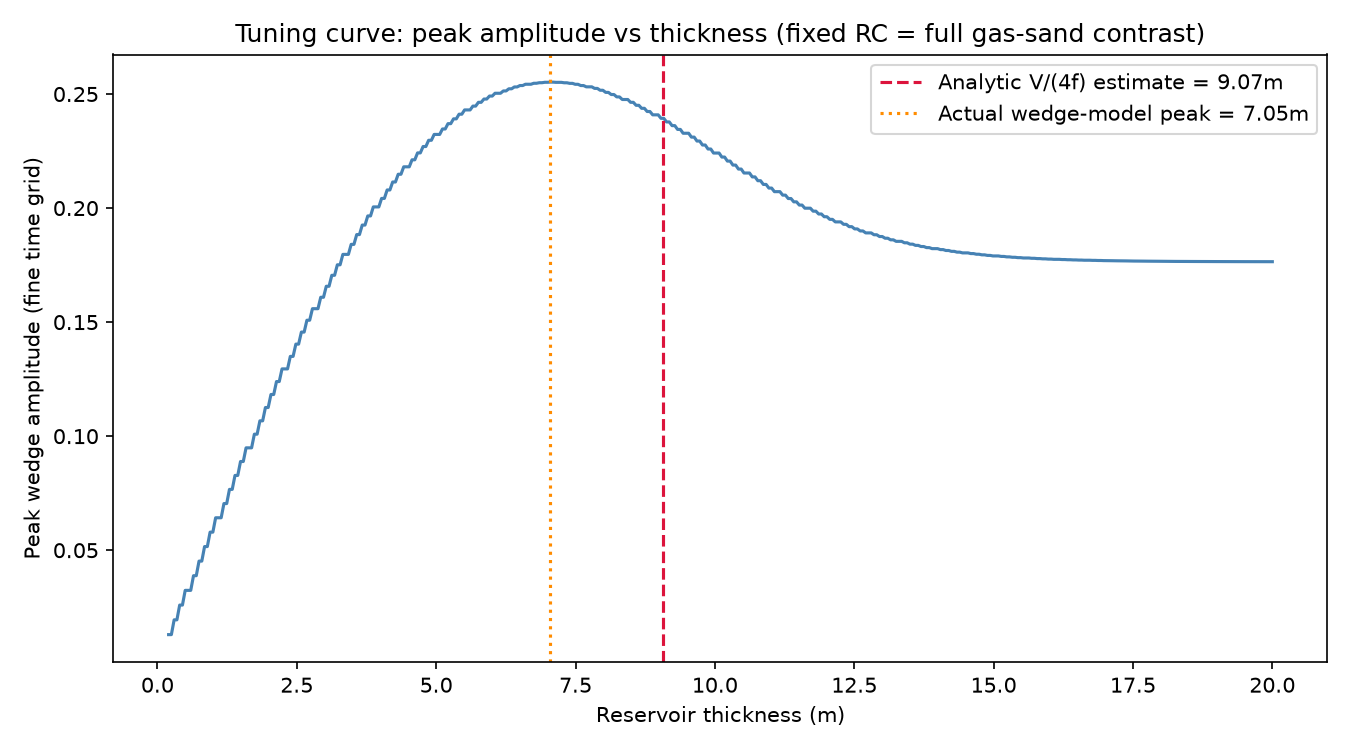
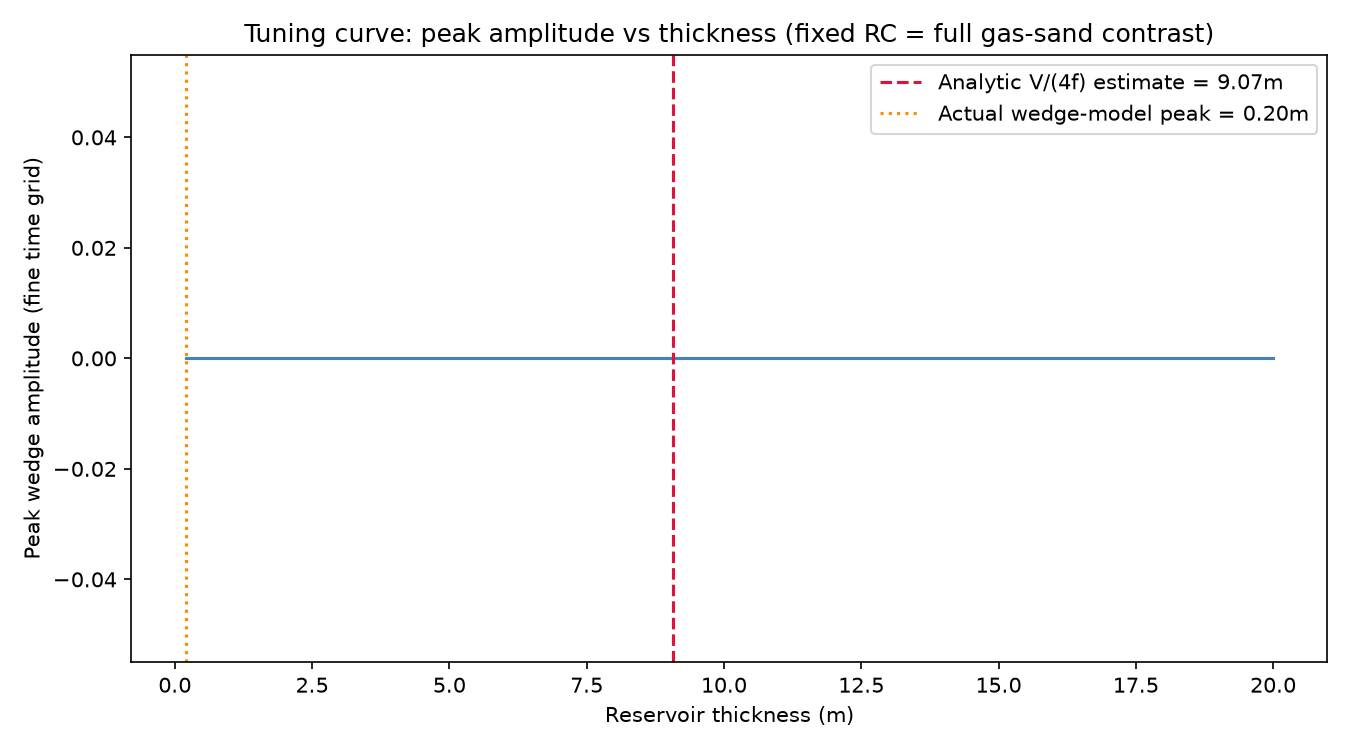
Add stage 2 (randomized diversity) and stage 3 (hard negatives)
- Footprint rotation, single-reflector, and flat-top-time-override support
  in inject_dhi_anomaly_3d
- find_structural_highs/find_structural_lows: reusable local-extrema search
  across the matched horizon surface (recovers the known crest automatically)
- scenarios.py: continuous per-tier thickness/RC sampling, randomized
  footprint size/orientation, independent flat-spot/polarity-reversal
  inclusion, and three physically-motivated hard-negative types
  (no_conformance, syncline, single_reflector)
- Fix: estimate_amplitude_scale used a plain mean, so sub-volumes with any
  missing traces (F3's survey outline isn't a perfect rectangle) got a NaN
  amplitude calibration that silently poisoned the whole injection - now
  uses nanmean
- Verified all four scenario types end-to-end against real data

diff --git a/src/dhi_pipeline/scenarios.py b/src/dhi_pipeline/scenarios.py
@@ -1,0 +1,141 @@
+"""
+Randomised scenario sampling for DHI dataset generation.
+
+Stage 2 (positive diversity): continuous thickness/RC within each severity
+tier's regime rather than four fixed points, randomised footprint size/
+orientation, independent flat-spot/polarity-reversal inclusion, sampled
+across many real structural highs rather than one hand-picked location.
+
+Stage 3 (hard negatives): the same amplitude/polarity machinery, deliberately
+placed without genuine trap geometry - so a detector trained on this has to
+learn "conformance + doublet", not "bright = DHI" (see Nanda 2021's warning
+that bright/flat spots can come from volcanics, coal, overpressured sand, or
+tuning - not just hydrocarbons).
+
+Each sampler returns a plain dict of keyword arguments ready to pass to
+`inject_dhi_anomaly_3d`, plus a `label` dict describing what was generated
+(for the eventual patch+label dataset export).
+"""
+
+import numpy as np
+
+from .injection import RC_GAS_SAND
+
+# Continuous ranges per tier, centred on the fixed SEVERITY_TIERS values but
+# with real spread - a trained detector should see a continuum near each
+# regime, not four exact repeated points.
+TIER_RANGES = {
+    'tier1_subtle': dict(thickness_range=(1.5, 3.0), rc_frac_range=(0.30, 0.50),
+                          flat_spot_prob=0.05, polarity_reversal_prob=0.05),
+    'tier2_approaching': dict(thickness_range=(4.0, 6.0), rc_frac_range=(0.55, 0.75),
+                               flat_spot_prob=0.15, polarity_reversal_prob=0.15),
+    'tier3_at_tuning': dict(thickness_range=(6.0, 8.0), rc_frac_range=(0.75, 0.95),
+                             flat_spot_prob=0.30, polarity_reversal_prob=0.30),
+    'tier4_obvious': dict(thickness_range=(11.0, 18.0), rc_frac_range=(0.90, 1.00),
+                           flat_spot_prob=0.70, polarity_reversal_prob=0.70),
+}
+
+FOOTPRINT_RADIUS_RANGE = (30, 80)  # traces, both il and xl radius sampled independently
+
+
+def _sample_footprint(rng):
+    return dict(
+        il_radius=rng.uniform(*FOOTPRINT_RADIUS_RANGE),
+        xl_radius=rng.uniform(*FOOTPRINT_RADIUS_RANGE),
+        rotation_deg=rng.uniform(0, 180),
+    )
+
+
+def sample_positive_scenario(tier_name, rng, structural_highs, velocity_mps, freq_hz):
+    """
+    Sample a randomised positive-example scenario for a given severity tier,
+    at a randomly chosen real structural high.
+
+    structural_highs: DataFrame from `horizons.find_structural_highs`.
+    Returns (injection_kwargs, label).
+    """
+    ranges = TIER_RANGES[tier_name]
+    site = structural_highs.iloc[rng.integers(len(structural_highs))]
+
+    thickness_m = rng.uniform(*ranges['thickness_range'])
+    rc_frac = rng.uniform(*ranges['rc_frac_range'])
+    flat_spot = rng.random() < ranges['flat_spot_prob']
+    polarity_reversal = rng.random() < ranges['polarity_reversal_prob']
+
+    kwargs = dict(
+        velocity_mps=velocity_mps, freq_hz=freq_hz,
+        thickness_m=thickness_m, reflection_coefficient=RC_GAS_SAND * rc_frac,
+        il_center=site['inline'], xl_center=site['crossline'],
+        flat_spot=flat_spot, polarity_reversal=polarity_reversal,
+        **_sample_footprint(rng),
+    )
+    label = dict(
+        is_dhi=True, kind=tier_name, tier=tier_name,
+        il_center=site['inline'], xl_center=site['crossline'],
+        thickness_m=thickness_m, reflection_coefficient=kwargs['reflection_coefficient'],
+        flat_spot=flat_spot, polarity_reversal=polarity_reversal,
+    )
+    return kwargs, label
+
+
+def sample_hard_negative_scenario(kind, rng, structural_highs, structural_lows,
+                                   velocity_mps, freq_hz, flat_background_time_ms=None):
+    """
+    Sample a randomised hard-negative scenario: same amplitude/polarity
+    machinery as a positive example, deliberately placed without genuine
+    trap geometry.
+
+    kind:
+      'no_conformance'  - flat top time (ignores the horizon entirely),
+                           same as the very first, geometrically-naive
+                           version of this pipeline. Tests whether a
+                           detector keys off amplitude alone.
+      'syncline'        - sits on a real horizon (conformant shape) but at
+                           a structural LOW rather than a high - physically
+                           non-prospective despite looking geometrically
+                           legitimate at a glance.
+      'single_reflector'- a single isolated bright event (no base reflector)
+                           on a real structural high - mimics a volcanic
+                           flow top, coal bed, or unconformity rather than
+                           a genuine reservoir wedge.
+
+    Uses a random tier's amplitude/thickness regime so hard negatives span
+    the same severity range as positives, rather than always being maximally
+    obvious. Returns (injection_kwargs, label).
+    """
+    tier_name = rng.choice(list(TIER_RANGES.keys()))
+    ranges = TIER_RANGES[tier_name]
+    thickness_m = rng.uniform(*ranges['thickness_range'])
+    rc_frac = rng.uniform(*ranges['rc_frac_range'])
+
+    base_kwargs = dict(
+        velocity_mps=velocity_mps, freq_hz=freq_hz,
+        thickness_m=thickness_m, reflection_coefficient=RC_GAS_SAND * rc_frac,
+        **_sample_footprint(rng),
+    )
+    label = dict(is_dhi=False, kind=f'hard_negative_{kind}', tier=tier_name,
+                 thickness_m=thickness_m, reflection_coefficient=base_kwargs['reflection_coefficient'])
+
+    if kind == 'no_conformance':
+        if flat_background_time_ms is None:
+            raise ValueError("kind='no_conformance' needs flat_background_time_ms")
+        site = structural_highs.iloc[rng.integers(len(structural_highs))]  # location still needs an il/xl centre
+        kwargs = dict(base_kwargs, il_center=site['inline'], xl_center=site['crossline'],
+                      flat_top_time_ms=flat_background_time_ms)
+        label.update(il_center=site['inline'], xl_center=site['crossline'])
+
+    elif kind == 'syncline':
+        site = structural_lows.iloc[rng.integers(len(structural_lows))]
+        kwargs = dict(base_kwargs, il_center=site['inline'], xl_center=site['crossline'])
+        label.update(il_center=site['inline'], xl_center=site['crossline'])
+
+    elif kind == 'single_reflector':
+        site = structural_highs.iloc[rng.integers(len(structural_highs))]
+        kwargs = dict(base_kwargs, il_center=site['inline'], xl_center=site['crossline'],
+                      single_reflector=True)
+        label.update(il_center=site['inline'], xl_center=site['crossline'])
+
+    else:
+        raise ValueError(f'unknown hard-negative kind: {kind}')
+
+    return kwargs, label

diff --git a/src/dhi_pipeline/horizons.py b/src/dhi_pipeline/horizons.py
@@ -15,6 +15,7 @@ import pickle
 import numpy as np
 import pandas as pd
 import segyio
+from scipy.ndimage import minimum_filter, uniform_filter
 from scipy.spatial import cKDTree
 
 _THIS_DIR = os.path.dirname(os.path.abspath(__file__))
@@ -94,3 +95,74 @@ class HorizonSurface:
             return exact
         _, idx = self._tree.query([il, xl])
         return self._times[idx]
+
+
+def _find_structural_extrema(horizon_df, window, min_relief_ms, edge_margin, kind):
+    """Shared logic for find_structural_highs / find_structural_lows."""
+    grid = horizon_df.pivot_table(index='inline', columns='crossline', values='time_ms')
+    grid_inlines = grid.index.values
+    grid_xlines = grid.columns.values
+    values = grid.values
+
+    sign = 1 if kind == 'high' else -1  # highs = local minima in time; lows (synclines) = local maxima
+    fill_value = np.nanmax(sign * values) * sign
+    filled = np.where(np.isnan(values), fill_value, values)
+    scored = sign * filled
+
+    local_extreme = minimum_filter(scored, size=window, mode='nearest')
+    local_mean = uniform_filter(scored, size=window * 3, mode='nearest')
+    is_extreme = (scored == local_extreme) & (local_mean - scored >= min_relief_ms) & ~np.isnan(values)
+
+    is_extreme[:edge_margin] = False
+    is_extreme[-edge_margin:] = False
+    is_extreme[:, :edge_margin] = False
+    is_extreme[:, -edge_margin:] = False
+
+    rows, cols = np.where(is_extreme)
+    candidates = pd.DataFrame({
+        'inline': grid_inlines[rows],
+        'crossline': grid_xlines[cols],
+        'time_ms': filled[rows, cols],
+        'relief_ms': (local_mean - scored)[rows, cols],
+    }).sort_values('relief_ms', ascending=False).reset_index(drop=True)
+
+    # non-max suppression: nearby points on the same plateau shouldn't all show up as separate candidates
+    kept_rows, kept_coords = [], []
+    for _, row in candidates.iterrows():
+        coord = np.array([row['inline'], row['crossline']])
+        if all(np.linalg.norm(coord - k) > window for k in kept_coords):
+            kept_rows.append(row)
+            kept_coords.append(coord)
+    return pd.DataFrame(kept_rows).reset_index(drop=True)
+
+
+def find_structural_highs(horizon_df, window=25, min_relief_ms=10.0, edge_margin=40):
+    """
+    Local structural highs (shallowest points - local minima in time) on a
+    matched horizon surface: candidate trap locations for positive DHI
+    examples, since structural closures are where hydrocarbons actually
+    accumulate.
+
+    window: neighbourhood size (trace units) used to test for a local extremum.
+    min_relief_ms: minimum time difference from the local window average, to
+        filter out noise-level bumps that aren't real structural closures.
+    edge_margin: excludes candidates within this many traces of the matched
+        surface's edge, leaving room for a footprint + taper.
+
+    Returns DataFrame(inline, crossline, time_ms, relief_ms), most prominent first.
+    """
+    return _find_structural_extrema(horizon_df, window, min_relief_ms, edge_margin, kind='high')
+
+
+def find_structural_lows(horizon_df, window=25, min_relief_ms=10.0, edge_margin=40):
+    """
+    Local structural lows (deepest points - synclines) on a matched horizon
+    surface. Useful for a physically-motivated hard negative: a bright,
+    doublet-shaped, conformant reflection sitting in a syncline rather than
+    an anticline is not a valid hydrocarbon trap (fluids don't accumulate
+    there under normal buoyancy-driven trapping) despite an amplitude/
+    polarity signature identical to a true positive - see Nanda (2021)'s
+    point about flat spots needing the right structural position (cited in
+    the notebook's research notes).
+    """
+    return _find_structural_extrema(horizon_df, window, min_relief_ms, edge_margin, kind='low')

diff --git a/src/dhi_pipeline/injection.py b/src/dhi_pipeline/injection.py
@@ -38,13 +38,16 @@ def _reflectivity_series(time_axis_ms, spikes):
 
 
 def _fine_wedge(top_time_ms, thickness_m, velocity_mps, reflection_coefficient, freq_hz,
-                 flat_spot_offset_ms=None, flat_spot_rc=None, dt_fine_ms=0.1, pad_ms=150):
+                 flat_spot_offset_ms=None, flat_spot_rc=None, include_base=True,
+                 dt_fine_ms=0.1, pad_ms=150):
     """Reflectivity + wavelet convolution on a fine time grid (shared core)."""
     twt_thickness_ms = thickness_to_twt_ms(thickness_m, velocity_mps)
     base_time_ms = top_time_ms + twt_thickness_ms
 
     fine_t = np.arange(top_time_ms - pad_ms, top_time_ms + twt_thickness_ms + pad_ms, dt_fine_ms)
-    spikes = [(top_time_ms, reflection_coefficient), (base_time_ms, -reflection_coefficient)]
+    spikes = [(top_time_ms, reflection_coefficient)]
+    if include_base:
+        spikes.append((base_time_ms, -reflection_coefficient))
     if flat_spot_offset_ms is not None:
         spikes.append((base_time_ms + flat_spot_offset_ms, flat_spot_rc))
     r_fine = _reflectivity_series(fine_t, spikes)
@@ -78,18 +81,22 @@ def wedge_peak_amplitude(thickness_m, velocity_mps, reflection_coefficient, freq
 
 def model_wedge_response(top_time_ms, thickness_m, velocity_mps, reflection_coefficient,
                           freq_hz, dt_ms, flat_spot_offset_ms=None, flat_spot_rc=None,
-                          dt_fine_ms=0.1, pad_ms=150):
+                          include_base=True, dt_fine_ms=0.1, pad_ms=150):
     """
     Band-limited seismic response of a reservoir wedge, resampled onto the
     trace's own sample interval (dt_ms) - use this for actually injecting
     onto a real trace. For validating tuning behaviour in the abstract, use
     `wedge_peak_amplitude` instead (see its docstring for why).
 
+    include_base=False drops the base-of-reservoir reflector, leaving a
+    single isolated event - mimics a single-interface look-alike (volcanic
+    flow top, coal bed, unconformity) rather than a genuine reservoir wedge.
+
     Returns (wedge_trace, time_axis_ms for that trace, twt_thickness_ms).
     """
     wedge_fine, fine_t, twt_thickness_ms = _fine_wedge(
         top_time_ms, thickness_m, velocity_mps, reflection_coefficient, freq_hz,
-        flat_spot_offset_ms, flat_spot_rc, dt_fine_ms, pad_ms,
+        flat_spot_offset_ms, flat_spot_rc, include_base, dt_fine_ms, pad_ms,
     )
     coarse_t = np.arange(top_time_ms - pad_ms, top_time_ms + twt_thickness_ms + pad_ms, dt_ms)
     wedge_coarse = np.interp(coarse_t, fine_t, wedge_fine)
@@ -113,8 +120,13 @@ def estimate_amplitude_scale(background_patch, reference_rc=0.05):
     plausible value for everyday shale/sand contrasts, well below a
     hydrocarbon-sand contrast like RC_GAS_SAND ~ -0.18). This is an
     approximation, not a measurement - flag it as such wherever it's used.
+
+    Uses nanmean: sub-volumes drawn from arbitrary survey locations can
+    contain missing traces (F3's acquisition outline isn't a perfect
+    rectangle), and a plain mean would let a handful of NaN traces poison
+    the entire calibration.
     """
-    rms_amplitude = np.sqrt(np.mean(background_patch ** 2))
+    rms_amplitude = np.sqrt(np.nanmean(background_patch ** 2))
     return rms_amplitude / reference_rc
 
 
@@ -174,9 +186,11 @@ def inject_dhi_anomaly(patch, time_axis_ms, xl_axis, top_time_ms, thickness_m, v
 
 def inject_dhi_anomaly_3d(volume, time_axis_ms, inline_axis, xl_axis, horizon_surface,
                            thickness_m, velocity_mps, reflection_coefficient, freq_hz,
-                           il_center, xl_center, il_radius, xl_radius, amplitude_scale=1.0,
-                           edge_taper_frac=0.2, flat_spot=False, flat_spot_offset_ms=15,
-                           polarity_reversal=False):
+                           il_center, xl_center, il_radius, xl_radius, rotation_deg=0.0,
+                           amplitude_scale=1.0, edge_taper_frac=0.2, flat_spot=False,
+                           flat_spot_offset_ms=15, polarity_reversal=False,
+                           horizon_time_offset_ms=0.0, single_reflector=False,
+                           flat_top_time_ms=None):
     """
     Add a synthetic reservoir-wedge response onto a 3D background volume,
     following a real horizon surface for structural conformance rather than
@@ -186,13 +200,26 @@ def inject_dhi_anomaly_3d(volume, time_axis_ms, inline_axis, xl_axis, horizon_su
     volume: (n_inlines, n_xlines, n_samples) raw amplitude - copied, not mutated.
     horizon_surface: a `HorizonSurface` (src/dhi_pipeline/horizons.py) giving
         real top_time_ms at any (il, xl) - the reservoir top follows its shape.
-    il_center/xl_center/il_radius/xl_radius: footprint is an axis-aligned
-        ellipse in (inline, crossline) space, centred at (il_center, xl_center).
+    il_center/xl_center/il_radius/xl_radius: footprint is an ellipse in
+        (inline, crossline) space, centred at (il_center, xl_center).
+    rotation_deg: rotates the ellipse's axes relative to the inline/crossline
+        grid (0 = il_radius along inline, xl_radius along crossline).
     edge_taper_frac: fraction of the footprint's outer radius (by normalised
         elliptical distance) that cosine-tapers to zero, so the footprint
         doesn't have a hard-edged boundary.
-    polarity_reversal: linearly flips RC sign across the crossline span of
-        the footprint (updip gas -> downdip water), as in Nanda (2021).
+    polarity_reversal: linearly flips RC sign across the footprint's local
+        (rotated) crossline-like axis (updip gas -> downdip water), as in
+        Nanda (2021).
+    horizon_time_offset_ms: constant shift applied to the horizon's time at
+        every point in the footprint - lets a scenario sit structurally
+        *below* a horizon (e.g. a syncline hard negative, see scenarios.py)
+        while still following its real shape. 0 = sit directly on the horizon.
+    single_reflector: drop the base-of-reservoir event, leaving one isolated
+        reflector - a non-conformant look-alike (volcanic/coal/unconformity)
+        rather than a genuine reservoir wedge.
+    flat_top_time_ms: if given, overrides the horizon entirely and uses this
+        constant time everywhere in the footprint - the "no structural
+        conformance at all" hard-negative case.
     (other params as `inject_dhi_anomaly`)
 
     Returns (out, twt_thickness_ms).
@@ -200,23 +227,32 @@ def inject_dhi_anomaly_3d(volume, time_axis_ms, inline_axis, xl_axis, horizon_su
     out = volume.copy()
     dt_ms = time_axis_ms[1] - time_axis_ms[0]
     twt_thickness_ms = thickness_to_twt_ms(thickness_m, velocity_mps)
+    theta = np.radians(rotation_deg)
 
     for i, il in enumerate(inline_axis):
         for j, xl in enumerate(xl_axis):
-            r = np.sqrt(((il - il_center) / il_radius) ** 2 + ((xl - xl_center) / xl_radius) ** 2)
+            d_il, d_xl = il - il_center, xl - xl_center
+            il_rot = d_il * np.cos(theta) + d_xl * np.sin(theta)
+            xl_rot = -d_il * np.sin(theta) + d_xl * np.cos(theta)
+            r = np.sqrt((il_rot / il_radius) ** 2 + (xl_rot / xl_radius) ** 2)
             if r > 1.0:
                 continue
 
             rc = reflection_coefficient
             if polarity_reversal:
-                frac = (xl - (xl_center - xl_radius)) / (2 * xl_radius)
+                frac = (xl_rot + xl_radius) / (2 * xl_radius)
                 rc = reflection_coefficient * (1 - 2 * np.clip(frac, 0, 1))
 
-            top_time_ms = horizon_surface.time_at(il, xl)
+            if flat_top_time_ms is not None:
+                top_time_ms = flat_top_time_ms
+            else:
+                top_time_ms = horizon_surface.time_at(il, xl) + horizon_time_offset_ms
+
             wedge, wedge_t, _ = model_wedge_response(
                 top_time_ms, thickness_m, velocity_mps, rc, freq_hz, dt_ms,
                 flat_spot_offset_ms=flat_spot_offset_ms if flat_spot else None,
                 flat_spot_rc=abs(reflection_coefficient) if flat_spot else None,
+                include_base=not single_reflector,
             )
 
             weight = 1.0